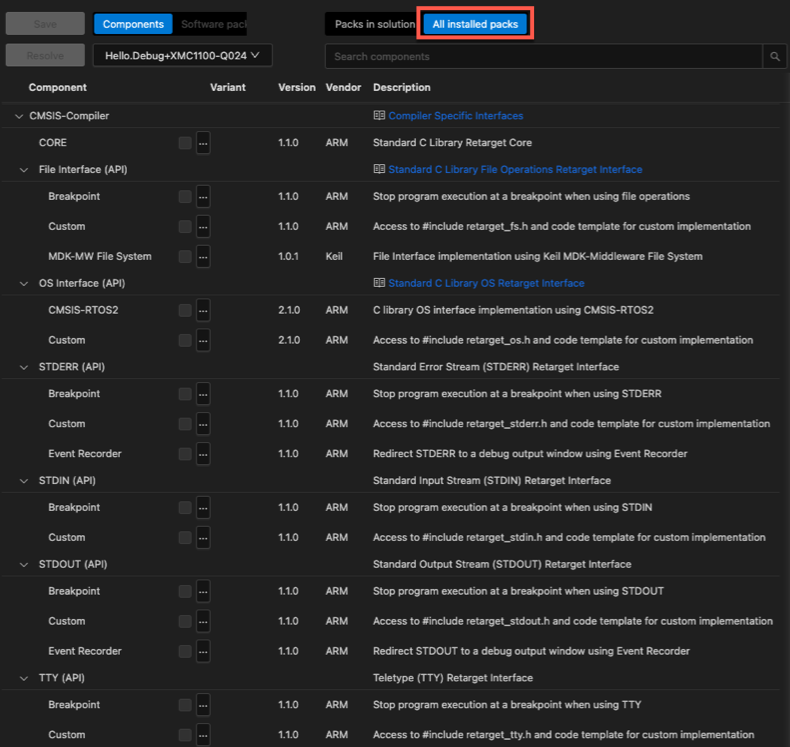
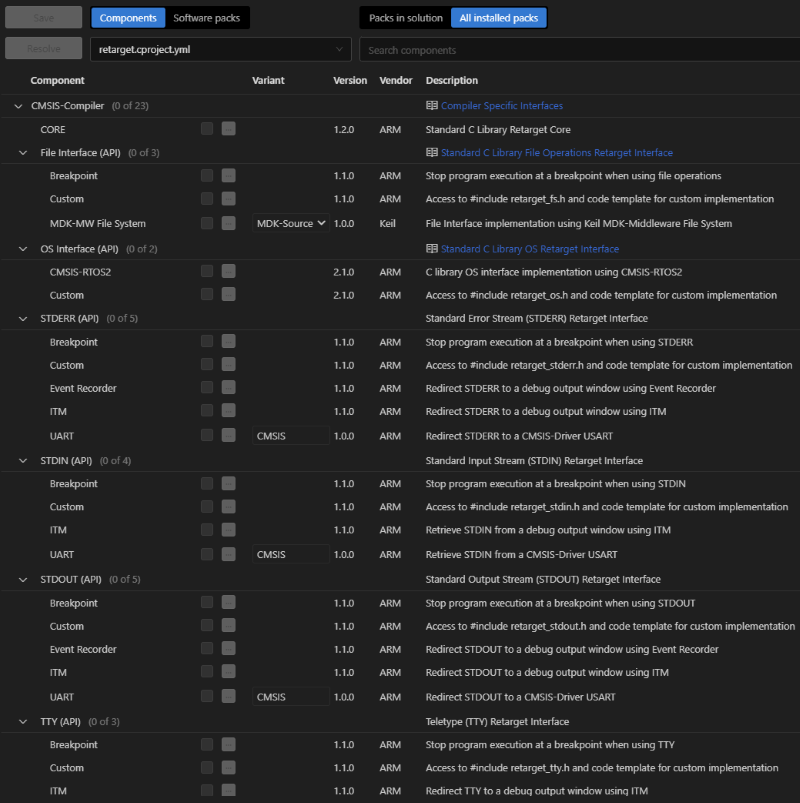
Update component selection image and remove repo from link (registered repo link in pack shows this)

diff --git a/overview/README.md b/overview/README.md
@@ -27,5 +27,4 @@ thread safe operations using RTOS interface.
 ## Links
 
 - [Documentation](https://arm-software.github.io/CMSIS-Compiler/latest/index.html)
-- [Repository](https://github.com/ARM-software/CMSIS-Compiler)
 - [Issues](https://github.com/ARM-software/CMSIS-Compiler/issues)
